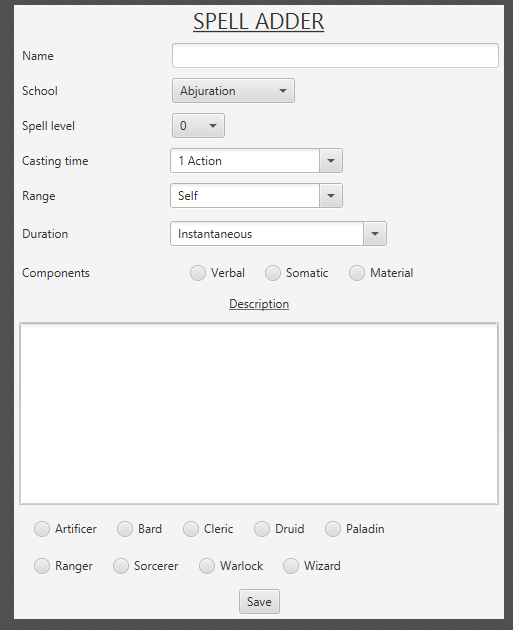
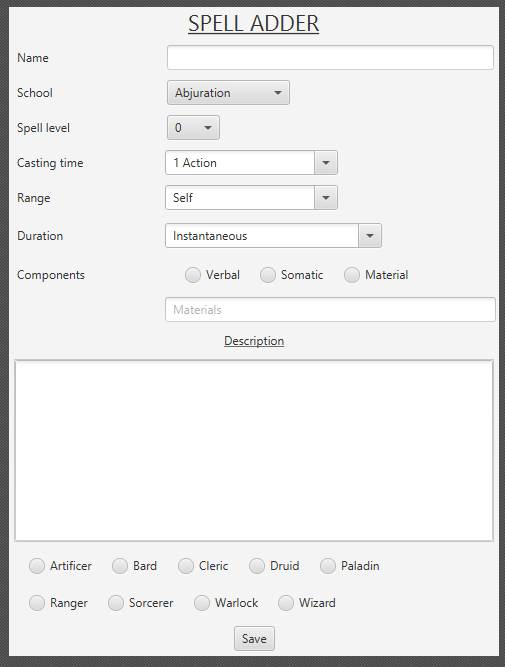
Added spell materials

Changed region(s): [[0.0, 0.0, 1.0, 0.9952], [0.2079, 0.9048, 0.2376, 0.9349]]

diff --git a/src/magic/WildDialogGUIController.java b/src/magic/WildDialogGUIController.java
@@ -27,6 +27,7 @@ public class WildDialogGUIController {
 	@FXML RadioButtonChooser<Boolean> dotVerbal;
 	@FXML RadioButtonChooser<Boolean> dotSomatic;
 	@FXML RadioButtonChooser<Boolean> dotMaterial;
+	@FXML TextField textMaterials;
 	
 	
 	// Class radiobuttons
